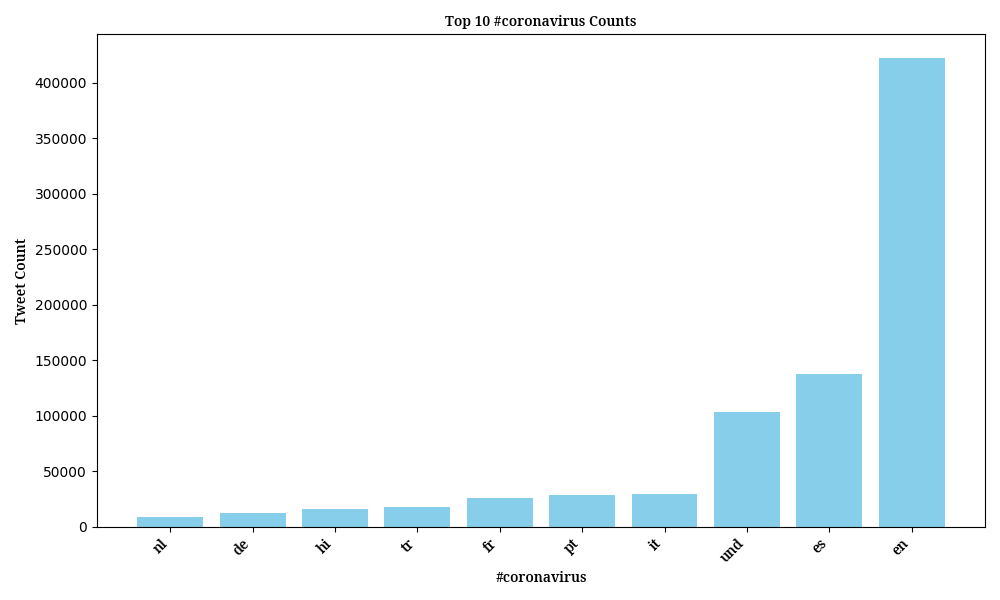
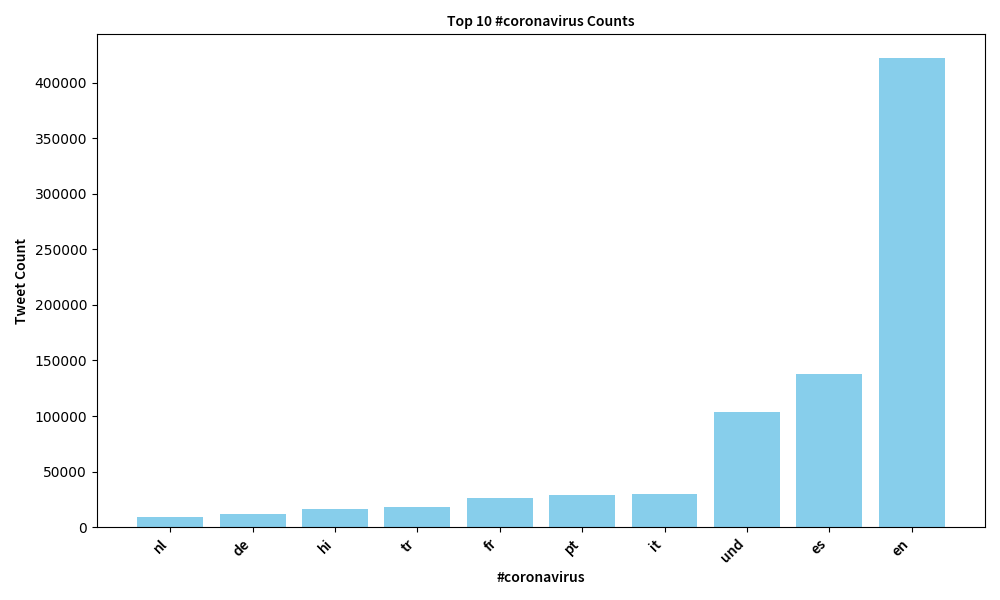
Adding images

diff --git a/src/visualize.py b/src/visualize.py
@@ -22,14 +22,8 @@ from matplotlib.font_manager import FontProperties
 
 # Customize font settings
 
-font_path = '/home/ayaa2021/twitter_coronavirus/fonts/NotoSerif-SemiBold.ttf'
 korean_path = '/home/ayaa2021/twitter_coronavirus/fonts/NotoSansKR-SemiBold.ttf'
-
-korean_pattern = re.compile('[ㄱ-ㅎ가-힣]')
-if korean_pattern.search(args.key):
-    font = FontProperties(fname=korean_path)
-else:
-    font = font = FontProperties(fname=font_path)
+font = FontProperties(fname=korean_path)
 
 # open the input path
 with open(args.input_path) as f:
